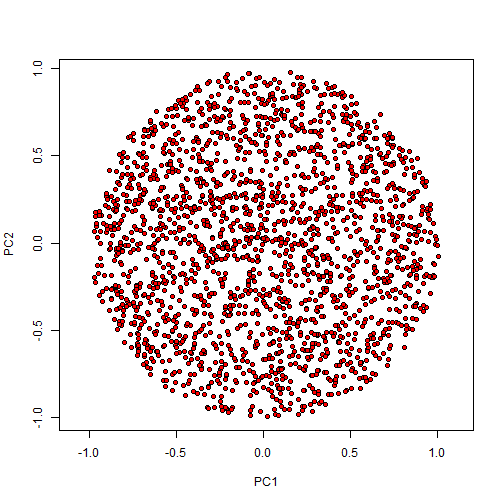
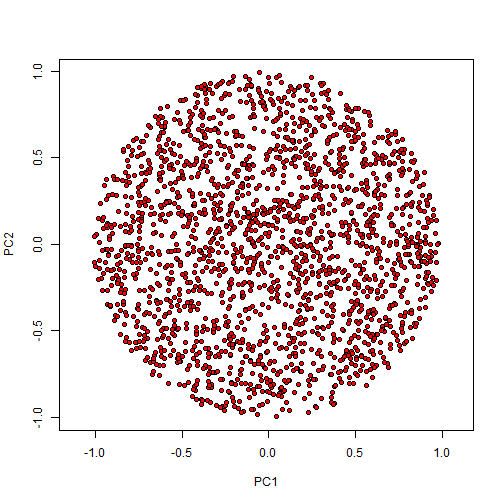
lecture 4

diff --git a/GMcourse/Lectures/04-ShapeVariablesSpaces.html b/GMcourse/Lectures/04-ShapeVariablesSpaces.html
@@ -388,7 +388,19 @@ where `\(\small\mathbf{\mathcal{V}=\mathcal{[V_x|V_y]}}\)` with `\(\small\mathbf
 &lt;img src="LectureData/04.shape.vars/LizardHead.png" width="80%" style="display: block; margin: auto;" /&gt;
 ]
 .pull-right[
-&lt;img src="04-ShapeVariablesSpaces_files/figure-html/unnamed-chunk-14-1.png" width="80%" style="display: block; margin: auto;" /&gt;
+
+```r
+par(mfcol = c(1, 2))
+plotAllSpecimens(Y.gpa$coords, links=links)
+PCA &lt;- gm.prcomp(Y.gpa$coords)
+plot(PCA,pch = 21, bg=col.gp,cex = 2)
+```
+
+&lt;img src="04-ShapeVariablesSpaces_files/figure-html/unnamed-chunk-14-1.png" width="70%" style="display: block; margin: auto;" /&gt;
+
+```r
+par(mfcol=c(1,1))
+```
 ]
 ---
 
@@ -498,8 +510,7 @@ plotRefToTarget(female,male, mag = 5, links = links)
 "highlightLines": true,
 "countIncrementalSlides": false,
 "ratio": "16:9",
-"self_contained": false,
-"chakra": "libs/remark-latest.min.js"
+"self_contained": false
 });
 if (window.HTMLWidgets) slideshow.on('afterShowSlide', function (slide) {
   window.dispatchEvent(new Event('resize'));
